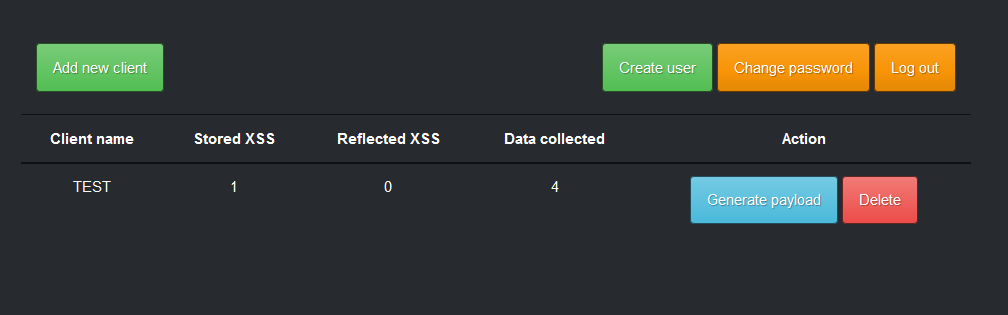
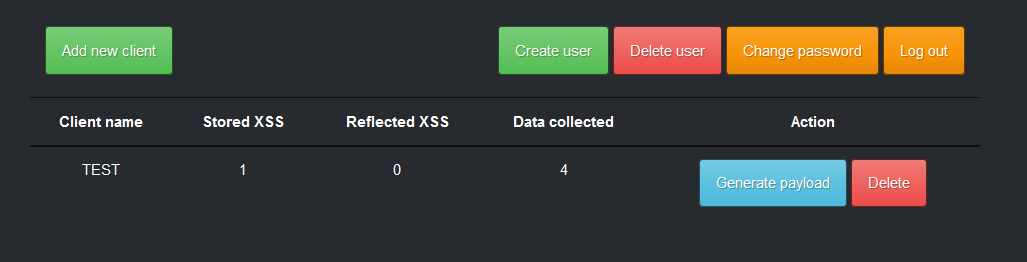
added user management

diff --git a/client/src/components/ManageUsers.vue b/client/src/components/ManageUsers.vue
@@ -1,0 +1,114 @@
+<template>
+
+  <b-modal
+    ref="manageUsersModal"
+    id="manage-users-modal"
+    title="Users"
+    hide-footer
+    size="md"
+    @show="getUsers"
+  >
+
+    <table class="table table-hover">
+      <thead>
+        <tr>
+          <th scope="col">Username</th>
+          <th scope="col" class='text-center'>Action</th>
+        </tr>
+      </thead>
+      <tbody>
+        <tr
+          v-for="user in orderBy(users, 'username')"
+          v-bind:key="user.id"
+        >
+          <td>{{ user.username }}</td>
+          <td class='text-center'>
+            <b-button
+              @click="to_delete = user.id"
+              v-b-modal.delete-user-modal
+              type="button"
+              variant="danger"
+            >Delete
+            </b-button>
+          </td>
+        </tr>
+      </tbody>
+    </table>
+
+    <b-modal
+    ref="deleteUserModal"
+    id="delete-user-modal"
+    title="Are you sure?"
+    hide-footer
+    >
+      <b-form
+        @submit="deleteUser"
+        @reset="$refs.deleteUserModal.hide()"
+      >
+
+        <b-button
+          type="submit"
+          variant="danger"
+        >Yes, delete this user</b-button>
+        <b-button type="reset">Cancel</b-button>
+
+      </b-form>
+    </b-modal>
+
+  </b-modal>
+
+</template>
+
+<script>
+
+import axios from 'axios'
+import Vue2Filters from 'vue2-filters'
+
+axios.defaults.headers.post['Content-Type'] =
+  'application/x-www-form-urlencoded'
+
+const basePath = '/api'
+
+export default {
+  mixins: [Vue2Filters.mixin],
+  data () {
+    return {
+      users: [],
+      to_delete: 0
+    }
+  },
+  methods: {
+    getUsers () {
+      const path = basePath + '/user/all'
+
+      axios.get(path)
+        .then(response => {
+          this.users = response.data
+        })
+        .catch(error => {
+          if (error.response.status === 401) { this.$router.push({ name: 'Login' }) } else {
+            console.error(error.response.data)
+          }
+        })
+    },
+    deleteUser () {
+      const path = basePath + '/user/' + this.to_delete
+
+      axios.delete(path)
+        .then(response => {
+          this.$refs.deleteUserModal.hide()
+          this.getUsers()
+        })
+        .catch(error => {
+          if (error.response.status === 401) { this.$router.push({ name: 'Login' }) } else {
+            console.error(error.response.data)
+          }
+        })
+    }
+  }
+
+}
+
+</script>
+
+<style></style>

diff --git a/client/src/components/Index.vue b/client/src/components/Index.vue
@@ -19,12 +19,15 @@
               new client</b-button>
           </b-col>
           <b-col
-            offset-sm="4"
-            sm="5"
+            offset-sm="2"
+            sm="7"
             class="text-right"
           >
             <b-button variant="success" v-b-modal.create-user-modal>
               Create user
+            </b-button>
+            <b-button variant="danger" v-b-modal.manage-users-modal>
+              Delete user
             </b-button>
             <b-button variant="warning" v-b-modal.change-password-modal>
               Change password
@@ -135,6 +138,7 @@
     <ViewClient :client_id=viewed_client />
     <CreateUser />
     <ChangePassword />
+    <ManageUsers />
 
   </b-container>
 </template>
@@ -150,6 +154,7 @@ import ViewXSS from './ViewXSS'
 import ViewClient from './ViewClient'
 import CreateUser from './CreateUser'
 import ChangePassword from './ChangePassword'
+import ManageUsers from './ManageUsers'
 
 axios.defaults.headers.post['Content-Type'] =
   'application/x-www-form-urlencoded'
@@ -164,7 +169,8 @@ export default {
     ViewXSS,
     ViewClient,
     CreateUser,
-    ChangePassword
+    ChangePassword,
+    ManageUsers
   },
   mixins: [Vue2Filters.mixin],
   data () {

diff --git a/server/app/api/user.py b/server/app/api/user.py
@@ -71,6 +71,7 @@ def change_password():
 def get_user():
     return jsonify(current_user.to_dict()), 200
 
+
 @bp.route('/user/first_login', methods=['GET'])
 @login_required
 def user_first_login():
@@ -80,9 +81,33 @@ def user_first_login():
 
     return jsonify({'status': 'OK'}), 200
 
+
 @bp.route('/user/is_auth', methods=['GET'])
 @login_required
 def is_auth():
 
     return jsonify({'status': 'OK'}), 200
 
+
+@bp.route('/user/<id>', methods=['DELETE'])
+@login_required
+def delete_user(id):
+
+    user = User.query.filter_by(id=id).first_or_404()
+
+    db.session.delete(user)
+    db.session.commit()
+
+    return jsonify({'status': 'OK'})
+
+
+@bp.route('/user/all', methods=['GET'])
+@login_required
+def get_users():
+    users = []
+    data = User.query.all()
+
+    for user in data: 
+        users.append(user.to_dict())
+
+    return jsonify(users), 200

diff --git a/README.md b/README.md
@@ -20,7 +20,7 @@ docker-compose up -d
 ## To Do
 * [x] Create a README.md file
 * [ ] Allow management of users
-* [ ] Add some CSS
+* [X] Add some CSS
 * [ ] Add concept of admin users and client permission management
 ## Pictures
 ![Alt text](/pictures/dashboard.png?raw=true "Dashboard")
